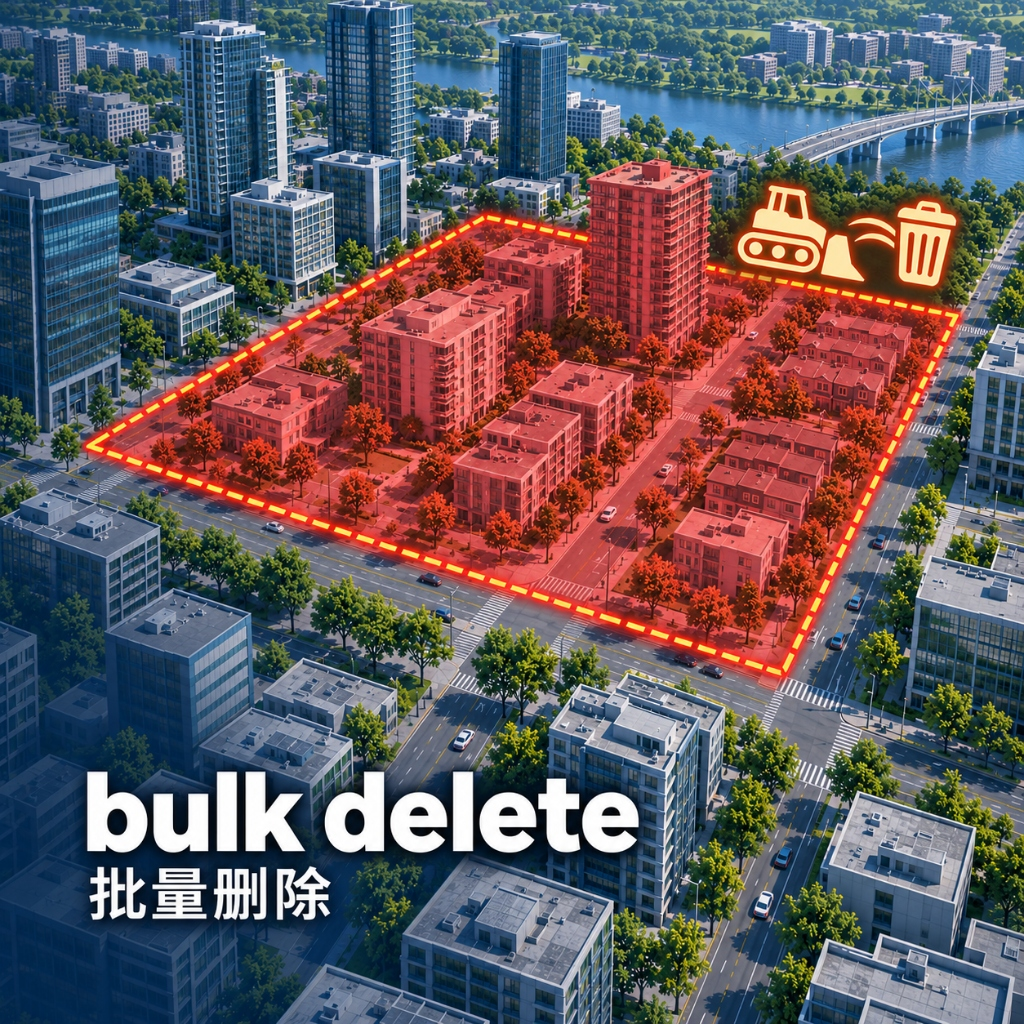
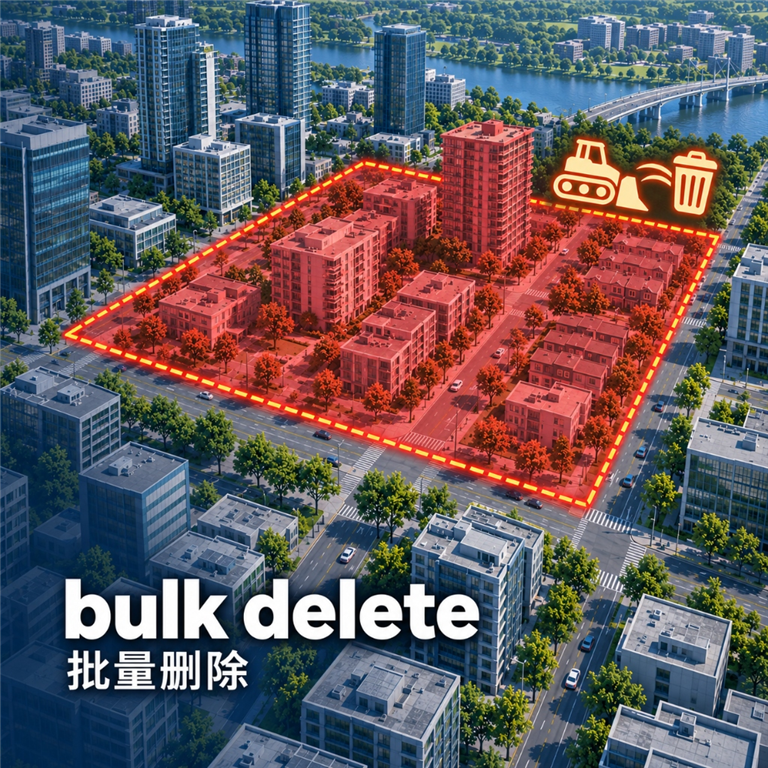
chore: release v2.7.3 (fix selection & continuous undo)

Changed region(s): [[0.1562, 0.8438, 0.25, 0.9062], [0.2812, 0.8438, 0.3125, 0.9062]]

diff --git a/MarqueeDelete/Mod.cs b/MarqueeDelete/Mod.cs
@@ -11,7 +11,7 @@ namespace MarqueeDelete
     public sealed class Mod : IMod
     {
         public const string ModName = "MarqueeDelete";
-        public const string ModVersion = "2.7.2";
+        public const string ModVersion = "2.7.3";
         public const string TargetGameMvid = Compatibility.VerifiedGameMvid;
         public const string TargetGameVersion = Compatibility.VerifiedGameVersion;
         public static string DetectedGameMvid => Compatibility.DetectedMvid;

diff --git a/README.md b/README.md
@@ -2,7 +2,7 @@
 
 ![Bulk Delete Cover](MarqueeDelete/Properties/Thumbnail.png)
 
-> **当前发布版本**：Mod **v2.7.2**（GitHub Release **1.1**）｜ **目标游戏构建**：Cities: Skylines II `1.6.4f1`（MVID `46198354D4F94D23BF327E3C085D8B92`）
+> **当前发布版本**：Mod **v2.7.3**（GitHub Release **1.1**）｜ **目标游戏构建**：Cities: Skylines II `1.6.4f1`（MVID `46198354D4F94D23BF327E3C085D8B92`）
 
 ---
 
@@ -58,7 +58,7 @@
 
 ```
 MarqueeDelete/
-├── Mod.cs                          # 模组入口（v2.7.2），初始化兼容层、设置与本地化
+├── Mod.cs                          # 模组入口（v2.7.3），初始化兼容层、设置与本地化
 ├── Compatibility.cs                # 四组兼容边界校验（SearchAndPick / DeletionSubmit / UndoRebuild / UIAccess）
 ├── Settings.cs                     # Mod 设置项、快捷键绑定（含全局撤回 Ctrl+Z）与颜色持久化
 ├── Localization.cs                 # 多语言本地化字典注册

diff --git a/MarqueeDelete/README.md b/MarqueeDelete/README.md
@@ -3,7 +3,7 @@
 ![Bulk Delete Cover](Properties/Thumbnail.png)
 
 `MarqueeDelete` 是《城市：天际线 II》（Cities: Skylines II）的批量拆除与独立全局撤回模组。  
-当前版本为 **v2.7.2**（GitHub Release **1.1**），兼容与符号校验基于游戏 **1.6.4f1**（MVID `46198354D4F94D23BF327E3C085D8B92`）。
+当前版本为 **v2.7.3**（GitHub Release **1.1**），兼容与符号校验基于游戏 **1.6.4f1**（MVID `46198354D4F94D23BF327E3C085D8B92`）。
 
 ---
 
@@ -88,7 +88,7 @@ dotnet restore .\tests\DeletionRegression.csproj
 .\tests\run_tests.ps1
 ```
 
-当前离线验证基线（v2.7.2）：
+当前离线验证基线（v2.7.3）：
 - `verify_cecil.ps1`：1,253 个成员引用 / 381 个类型引用 / 0 未解析
 - `MarqueeDelete.Tests`：3,292 passed, 0 failed
 - `DeletionRegression`：267 passed
